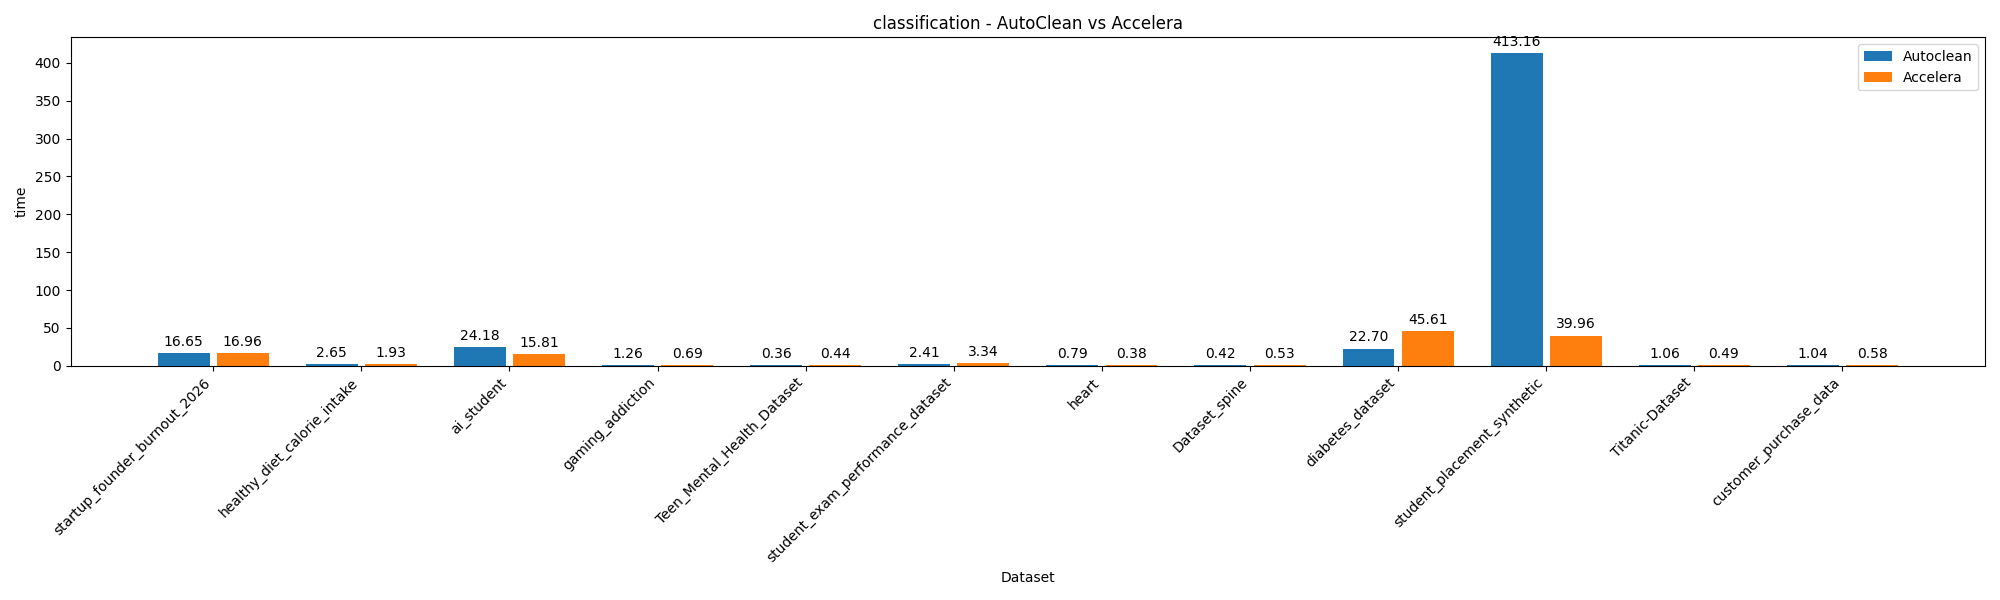
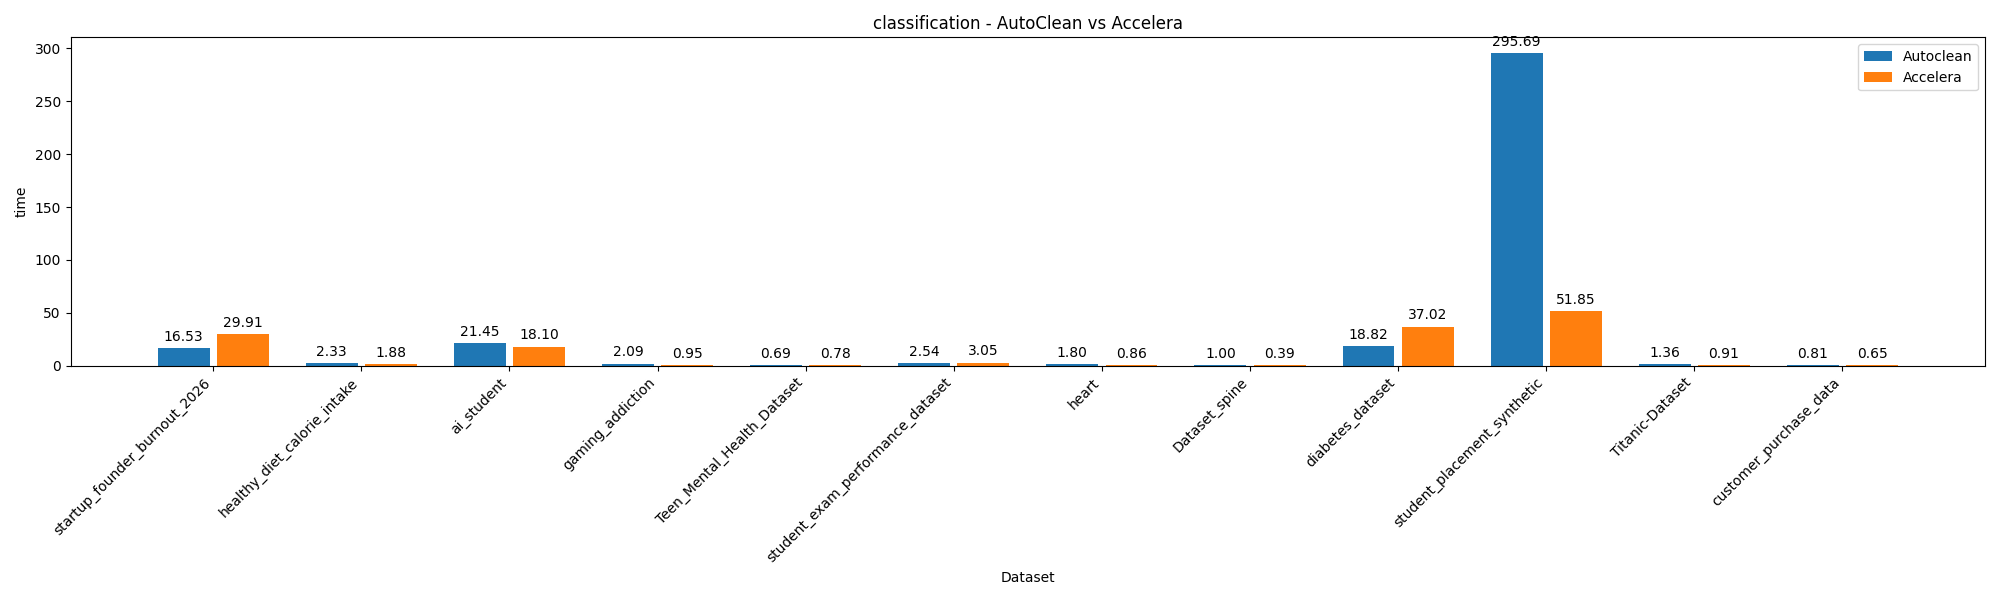
solve path

diff --git a/examples/auto_preprocessing_demo.py b/examples/auto_preprocessing_demo.py
@@ -21,8 +21,8 @@ EXAMPLES_DIR = Path(__file__).resolve().parent
 print("=" * 80)
 print("===Accelera Auto Preprocessing Demo: For Tabular Data , Text and Image===")
 print(
-    "File running: examples/auto_preprocessing_demo.py\n"
-    "This file runs datasets are existing in examples/auto_preprocessing_ds\n"
+    f"File running: {EXAMPLES_DIR}/auto_preprocessing_demo.py\n"
+    f"This file runs datasets are existing in {EXAMPLES_DIR}/auto_preprocessing_ds\n"
     "The goal is this demo to run auto preprocessing for each type of data and generate folder for each data has pkl files and report"
 )
 print("=" * 80)
@@ -30,7 +30,7 @@ print("=" * 80)
 def get_data_set_info():
     with open(EXAMPLES_DIR / "auto_preprocessing_ds.json", "r") as f:
         ds = json.loads(f.read())
-        print("Load Datasets from auto_preproceesing_ds json file")
+        print(f"Load Datasets from {EXAMPLES_DIR}/auto_preproceesing_ds json file")
     return ds
 
 
@@ -60,7 +60,7 @@ def handle_data_preprocessing_tabular_text(
         ).common_preprocessing()
     print(
         f"\nFinish Preprocessing find the report in "
-        f"end={report_path} and return X_train, X_test, y_train, y_test"
+        f"{EXAMPLES_DIR}/{report_path} and return X_train, X_test, y_train, y_test"
     )
     return X_train, X_test, y_train, y_test
 
@@ -80,7 +80,7 @@ def classifcation_problem(training_folder_images, folder_path, augment, image_si
     training_loader, validation_loader = training_preprocessor.common_preprocessing()
     print(
         f"Finish Preprocessing find the "
-        f"report in {folder_path} training_loader, validation_loader"
+        f"report in {EXAMPLES_DIR}/{folder_path} training_loader, validation_loader"
     )
     return training_loader, validation_loader
 
@@ -107,7 +107,7 @@ def segemenation_problem(
     ).common_preprocessing()
     print(
         f"\nFinish Preprocessing find the report in "
-        f"{folder_path} and return training_loader, validation_loader\n"
+        f"{EXAMPLES_DIR}/{folder_path} and return training_loader, validation_loader\n"
     )
     return training_loader, validation_loader
 
@@ -126,16 +126,16 @@ def main():
                     )
                     if problem_type == "classification":
                         classifcation_problem(
-                            ds_info["train_folder"],
-                            ds_info["report_path"],
+                            EXAMPLES_DIR/ds_info["train_folder"],
+                            EXAMPLES_DIR/ds_info["report_path"],
                             ds_info["augment"],
                             image_size=image_size,
                         )
                     else:
                         segemenation_problem(
-                            ds_info["train_folder_images"],
-                            ds_info["train_folder_masks"],
-                            ds_info["report_path"],
+                            EXAMPLES_DIR/ds_info["train_folder_images"],
+                            EXAMPLES_DIR/ds_info["train_folder_masks"],
+                            EXAMPLES_DIR/ds_info["report_path"],
                             ds_info["augment"],
                             image_size=image_size,
                         )

diff --git a/examples/auto_preprocessing_image_segmentation.py b/examples/auto_preprocessing_image_segmentation.py
@@ -4,6 +4,7 @@ import matplotlib.pyplot as plt
 import pandas as pd
 import torch
 import torch.nn as nn
+from pathlib import Path
 
 from accelera.src.automl.core.segmentation_image_testing_preprocessing import (  # noqa: E501
     SegmentationImageTestingPreprocessing,
@@ -12,6 +13,7 @@ from accelera.src.automl.core.segmentation_image_training_preprocessing import (
     SegmentationImageTrainingPreprocessing,
 )
 
+EXAMPLES_DIR = Path(__file__).resolve().parent
 
 class UnetModel(nn.Module):
     class _TwoConvLayers(nn.Module):
@@ -275,7 +277,7 @@ class SegmentationTraining:
                         "optimizer_state": optimizer.state_dict(),
                         "best_dice": best_dice,
                     },
-                    "best_model.tar",
+                    F"{self.folder_path}/best_model.tar",
                 )
 
                 print(f"best model saved (dice = {best_dice:.4f})")
@@ -311,7 +313,7 @@ class SegmentationTraining:
 
 
 def get_data_set_info():
-    with open("auto_preproceesing_ds.json", "r") as f:
+    with open(EXAMPLES_DIR/"auto_preprocessing_ds.json", "r") as f:
         ds = json.loads(f.read())["image_dataset"]["segmentation"]
     return ds
 
@@ -319,12 +321,16 @@ def get_data_set_info():
 def main():
     ds = get_data_set_info()
     for dataset, info in ds.items():
-        train_folder_images = info["train_folder_images"]
+        train_folder_images = EXAMPLES_DIR/info["train_folder_images"]
 
-        train_folder_masks = info["train_folder_masks"]
+        train_folder_masks = EXAMPLES_DIR/info["train_folder_masks"]
         val_folder_images = info.get("val_folder_images", None)
         val_folder_masks = info.get("val_folder_masks", None)
-        folder_path = info["report_path"]
+        if val_folder_images:
+            val_folder_images=EXAMPLES_DIR/val_folder_images
+        if val_folder_masks :
+            val_folder_masks=EXAMPLES_DIR/val_folder_masks
+        folder_path = EXAMPLES_DIR/info["report_path"]
         augment = info["augment"] == "True"
         is_train = info["train"] == "True"
         inferernce = info.get("inferernce", None)
@@ -345,11 +351,18 @@ def main():
             obj.train(train_loader, val_loader, epochs=20)
             obj.inference(val_loader)
         if inferernce is not None:
+            inferernce["images"] = [
+                EXAMPLES_DIR / imgage for imgage in inferernce["images"]
+            ]
+
+            inferernce["image_class_names"] = [
+                EXAMPLES_DIR / mask for mask in inferernce["image_class_names"]
+            ]
             testing_loader, invalid_images = SegmentationImageTestingPreprocessing(
                 inferernce["images"], inferernce["masks", folder_path]
             ).common_preprocessing()
             obj.inference(testing_loader)
-        pd.DataFrame(obj.logs).to_csv(f"{folder_path}/logs.csv", index=False)
+        pd.DataFrame(obj.logs).to_csv(f"{EXAMPLES_DIR}/{folder_path}/logs.csv", index=False)
 
 
 if __name__ == "__main__":

diff --git a/examples/auto_preprocessing_image_classification.py b/examples/auto_preprocessing_image_classification.py
@@ -1,4 +1,5 @@
 import json
+from pathlib import Path
 
 import pandas as pd
 import torch
@@ -13,7 +14,7 @@ from accelera.src.automl.core.classification_image_training_preprocessing import
     ClassificationImageTrainingPreprocessing,
 )
 
-
+EXAMPLES_DIR = Path(__file__).resolve().parent
 class ClassificationTraining:
     def __init__(self, dataset_name, folder_path, num_classes):
         self.logs = [dataset_name]
@@ -122,7 +123,7 @@ class ClassificationTraining:
 
 
 def get_data_set_info():
-    with open("auto_preproceesing_ds.json", "r") as f:
+    with open(EXAMPLES_DIR/"auto_preprocessing_ds.json", "r") as f:
         ds = json.loads(f.read())["image_dataset"]["classification"]
     return ds
 
@@ -130,9 +131,13 @@ def get_data_set_info():
 def main():
     ds = get_data_set_info()
     for dataset, info in ds.items():
-        train_folder = info["train_folder"]
+        train_folder = EXAMPLES_DIR/info["train_folder"]
         val_folder = info.get("val_folder", None)
-        folder_path = info["report_path"]
+        if val_folder:
+            val_folder=EXAMPLES_DIR/val_folder
+        
+        folder_path = EXAMPLES_DIR/info["report_path"]
+        print(folder_path)
         augment = info["augment"] == "True"
         is_train = info["train"] == "True"
         n_class = info.get("n_class", None)
@@ -149,10 +154,13 @@ def main():
             model = obj.pretrained_model()
             obj.train(model, train_loader, val_loader, epochs=20)
         if inferernce is not None:
+            inferernce["images"] = [
+                EXAMPLES_DIR / imgage for imgage in inferernce["images"]
+            ]
             images = inferernce["images"]
             image_class_names = inferernce["image_class_names"]
             obj.inference(images, image_class_names)
-        pd.DataFrame(obj.logs).to_csv(f"{folder_path}/logs.csv", index=False)
+        pd.DataFrame(obj.logs).to_csv(f"{EXAMPLES_DIR}/{folder_path}/logs.csv", index=False)
 
 
 if __name__ == "__main__":

diff --git a/examples/auto_preprocessing_compare.py b/examples/auto_preprocessing_compare.py
@@ -1,5 +1,6 @@
 import json
 import time
+from pathlib import Path
 
 import matplotlib.pyplot as plt
 import numpy as np
@@ -20,10 +21,11 @@ from accelera.src.automl.core.classical_training_preprocessing import (
     ClassicalTrainingPreprocessing,
 )
 from accelera.src.utils.dataset_retriever import retriever
+EXAMPLES_DIR = Path(__file__).resolve().parent
 
 
 def get_data_set_info():
-    with open("auto_preprocessing_full_ds.json", "r") as f:
+    with open(EXAMPLES_DIR/"auto_preprocessing_full_ds.json", "r") as f:
         ds = json.loads(f.read())
     return ds
 

diff --git a/examples/auto_preprocessing_text.py b/examples/auto_preprocessing_text.py
@@ -2,15 +2,17 @@ import json
 
 from sklearn.metrics import f1_score
 from xgboost import XGBClassifier
+from pathlib import Path
 
 from accelera.src.automl.core.text_training_preprocessing import (
     TextTrainingPreprocessing,
 )
 from accelera.src.utils.dataset_retriever import retriever
+EXAMPLES_DIR = Path(__file__).resolve().parent
 
 
 def get_data_set_info():
-    with open("auto_preprocessing_full_ds.json", "r") as f:
+    with open(EXAMPLES_DIR/"auto_preprocessing_full_ds.json", "r") as f:
         ds = json.loads(f.read())
     return ds
 
